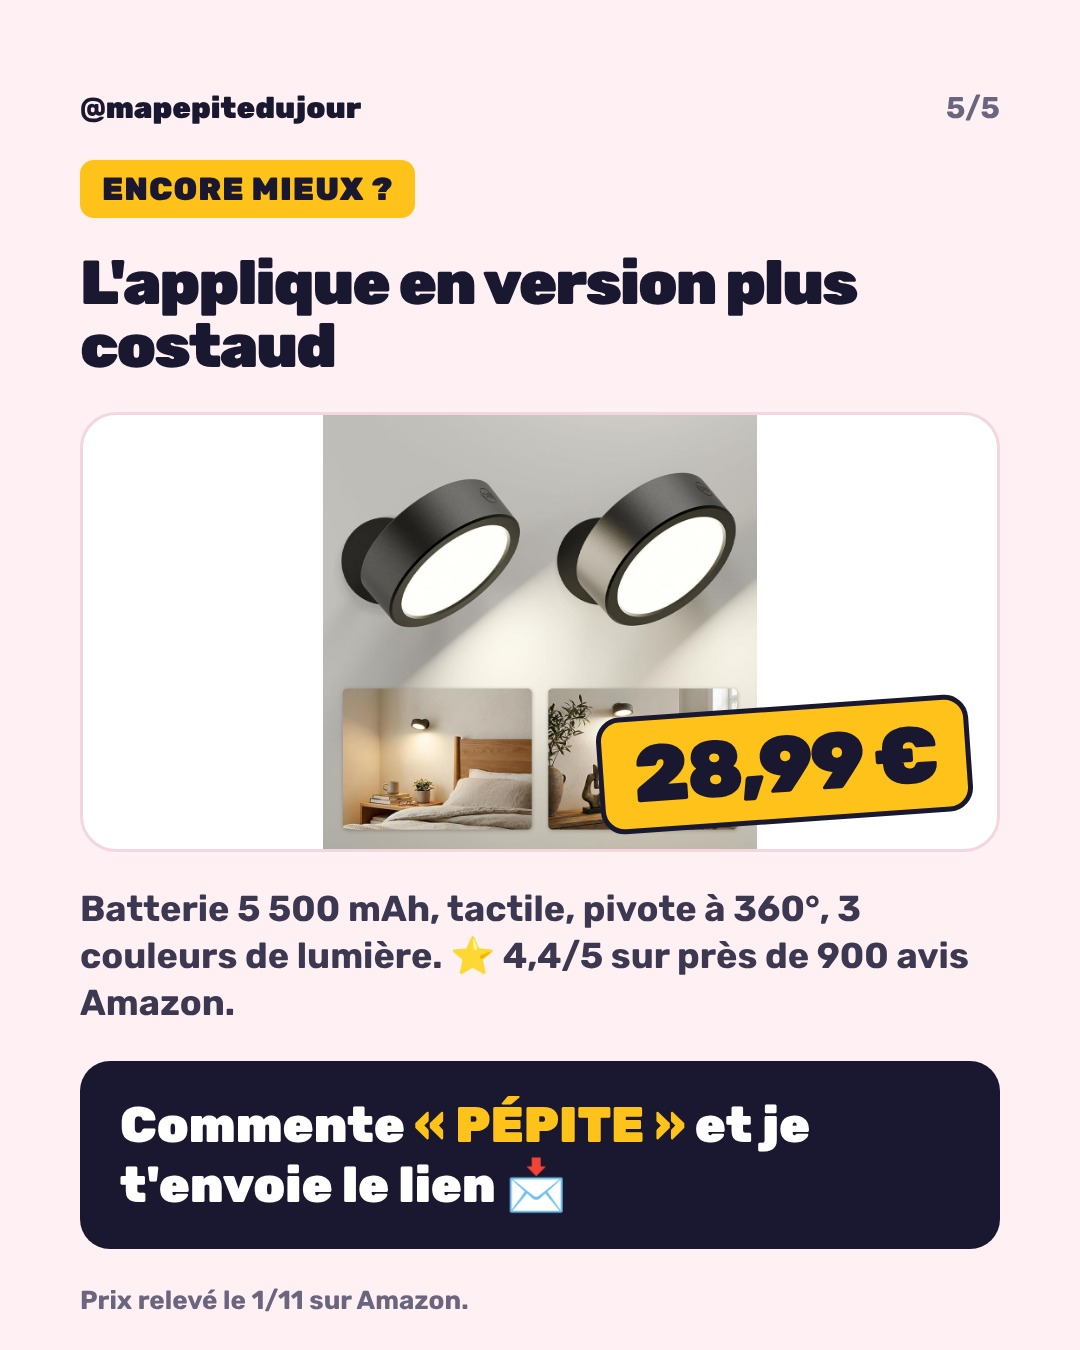
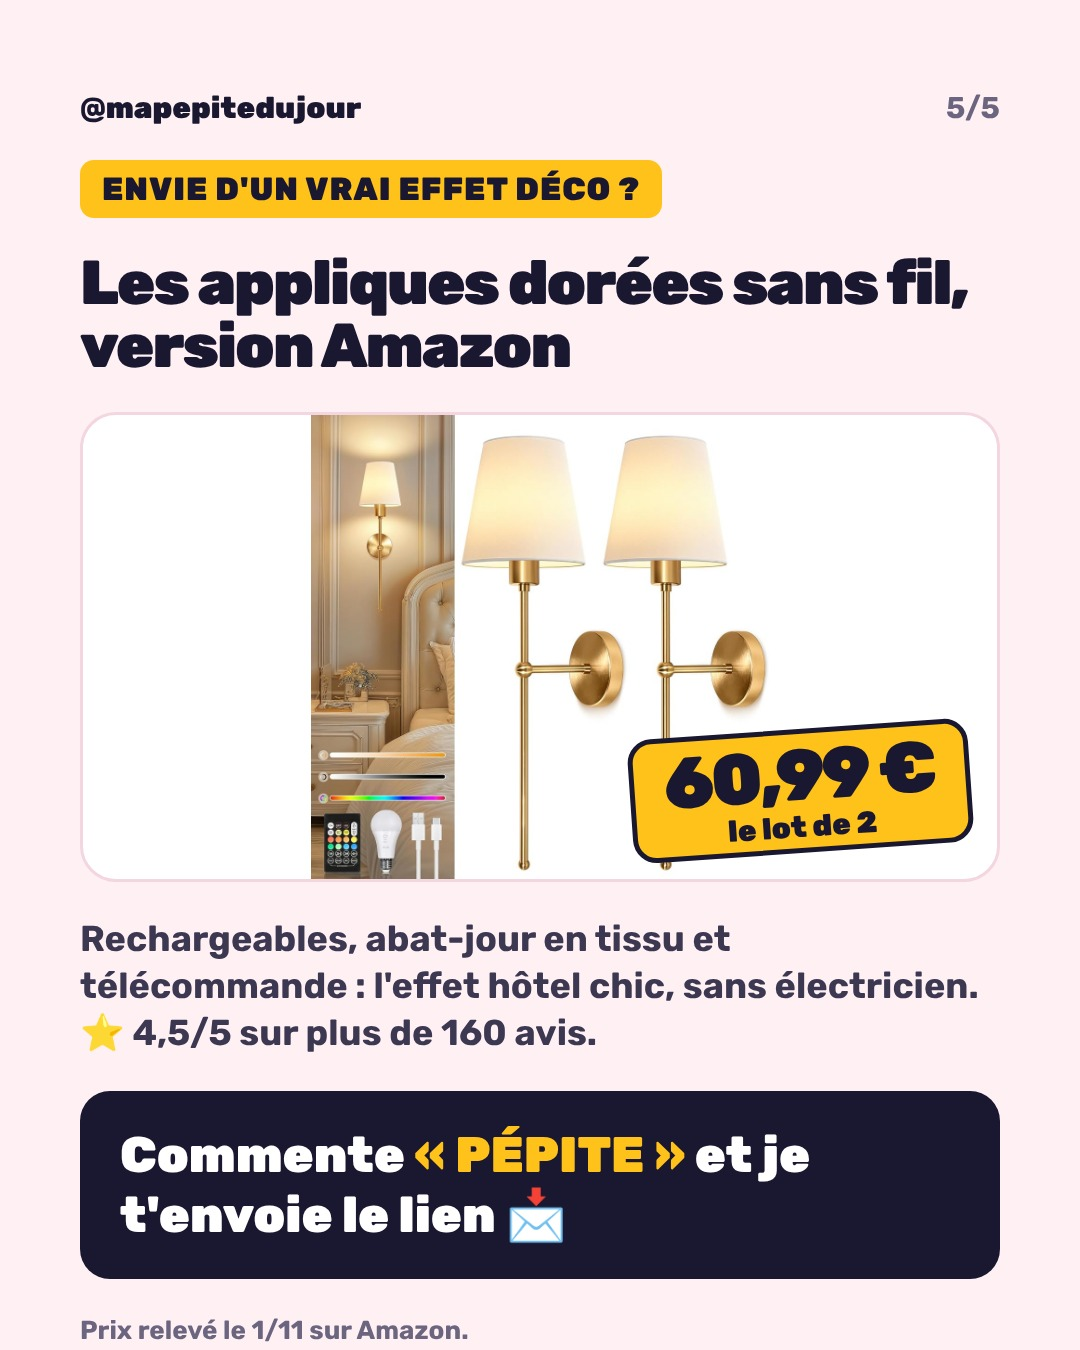
Carrousel Action : appliques dorées Ketom en version Amazon
Claude-Session: https://claude.ai/code/session_01Cc99gg5NmvYwtm12Vy28EN

Changed region(s): [[0.0611, 0.0933, 0.9472, 0.9956]]

diff --git a/planning/index.html b/planning/index.html
@@ -79,8 +79,8 @@
       legende: "Hacher à la main, c'est long et ça finit partout 😩 Tu tires la ficelle quelques fois et c'est haché fin, sans électricité ✨", tags: "#cuisine #astucecuisine #gadgetcuisine #pepite #amazonfr" },
     { n: "005", heure: "21 h 00", date: "2026-11-01", produit: "Boîtes à chaussures transparentes", video: "005-boites-chaussures.mp4", lien: "https://amzn.to/4kjFJoO",
       legende: "Les chaussures qui traînent partout dans l'entrée 😩 Des boîtes transparentes qui s'empilent et tout est rangé, visible en un coup d'œil ✨", tags: "#rangement #organisation #entree #astucemaison #pepite" },
-    { n: "A1", heure: "12 h 30", date: "2026-11-02", produit: "Carrousel « 3 pépites Action » (5 images)", images: ["action-1.jpg","action-2.jpg","action-3.jpg","action-4.jpg","action-5.jpg"], lien: "https://amzn.to/3V125Bh",
-      legendeComplete: "Commente « PÉPITE » et je t'envoie le lien de l'applique version Amazon 📩\n\n3 pépites Action qui font le buzz en ce moment, toutes à moins de 6 € 🔥 Laquelle tu prends ? 1, 2 ou 3 ? 👇\n\nPense à vérifier tes invitations par message : si tu ne me suis pas, le lien peut s'y cacher 🤍\n\nLien affilié Amazon · Sélection perso, non sponsorisée par Action\n\n#action #actionfrance #trouvailleaction #bonplan #deco #pepite" },
+    { n: "A1", heure: "12 h 30", date: "2026-11-02", produit: "Carrousel « 3 pépites Action » (5 images)", images: ["action-1.jpg","action-2.jpg","action-3.jpg","action-4.jpg","action-5.jpg"], lien: "https://amzn.to/4ihuDiX",
+      legendeComplete: "Commente « PÉPITE » et je t'envoie le lien des appliques dorées version Amazon 📩\n\n3 pépites Action qui font le buzz en ce moment, toutes à moins de 6 € 🔥 Laquelle tu prends ? 1, 2 ou 3 ? 👇\n\nPense à vérifier tes invitations par message : si tu ne me suis pas, le lien peut s'y cacher 🤍\n\nLien affilié Amazon · Sélection perso, non sponsorisée par Action\n\n#action #actionfrance #trouvailleaction #bonplan #deco #pepite" },
   ];
 
   const texteLegende = (p) => p.legendeComplete || `Commente « PÉPITE » et je t'envoie son lien 📩 ou retrouve le n°${p.n} dans le lien en bio 🔗\n\n${p.legende}\n\nPense à vérifier tes invitations par message : si tu ne me suis pas, le lien peut s'y cacher 🤍\n\nAbonne-toi pour ne pas louper la prochaine pépite 🤍\n\nLien affilié Amazon\n\n${p.tags}`;
